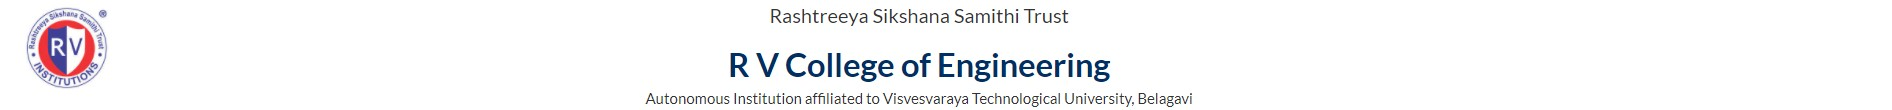
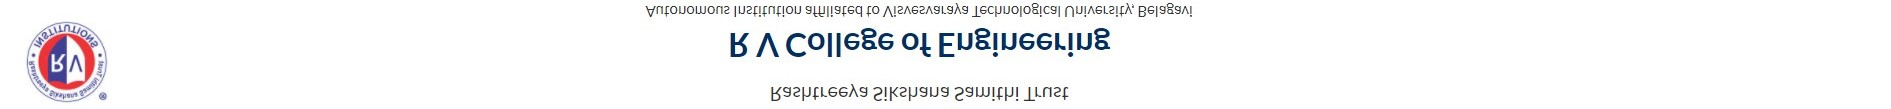
Pdf correction

diff --git a/publication/Adminview/templates/chart/charts.html b/publication/Adminview/templates/chart/charts.html
@@ -9,7 +9,7 @@
             data: {
                 labels: [{% for item in is %}'{{ item.ISSUE_STATUS }}',{% endfor %}],
                 datasets: [{
-                    label: '# of Votes',
+                    label: 'Number of issues',
                     data: [{%for item in is%}{{ item.CNT }},{% endfor %}],
                     backgroundColor: [
                         'rgba(255, 99, 132, 0.2)',

diff --git a/publication/Adminview/views.py b/publication/Adminview/views.py
@@ -44,16 +44,16 @@ def customPDF(request):
     data1 = list(serializers.deserialize("json",request.session.get('mycache1')))
     print(data)
     buf = io.BytesIO()
-    c = canvas.Canvas(buf,pagesize=letter)
+    c = canvas.Canvas(buf,pagesize=letter,bottomup=0)
     c.setFont("Helvetica",25)
     c.setTitle("Custom Report")
-    c.drawString(230,680,"Generated Report")
+    c.drawString(220,100,"Generated Report")
     textob = c.beginText()
     textob.setTextOrigin(inch,inch)
     textob.setFont("Helvetica",10)
     textob.textLine("All uploaded papers")
     lines = []
-    c.drawImage("static/img/header.jpg",15,720, width = 650, height = 40)
+    c.drawImage("static/img/header.jpg",10,10, width = 650, height = 40)
     header = ['Title', 'DOI','Published in', 'Year','Month', 'Scopus', 'WOS']
     lines.append(header)
     for pdf in data:
@@ -69,15 +69,19 @@ def customPDF(request):
                 line.append(p.object.MONTH)
                 line.append(p.object.SCOPUS_INDEX)
                 line.append(p.object.WEB_OF_SCIENCE)
-        lines.append(line)
-    f = Table(lines,colWidths=[150,40,150,35,55,50,50])
-    f.setStyle(TableStyle([('BACKGROUND', (0, 0), (-1, 0), colors.gray),
-                            ('TEXTCOLOR', (0, 0), (-1, 0), colors.whitesmoke),
-                            ('ALIGN',(0,0),(-1,-1),'CENTER'),
-                            ('FONTSIZE',(0,0),(-1,0),14),
-                            ('BOTTOMPADDING',(0,0),(-1,0),12)]))
+        lines = [line] + lines
+    f = Table(lines,colWidths=[150,40,150,35,55,62,62])
+    f.setStyle(TableStyle([('BACKGROUND', (0, -1), (-1, -1), colors.gray),
+                             #('TEXTCOLOR', (0, 0), (-1, 0), colors.whitesmoke),
+                             ('ALIGN',(0,0),(-1,-1),'CENTER'),
+                             ('FONTSIZE',(0,-1),(-1,-1),14),
+                             #('TOPPADDING',(0, 0), (-1, 0),30)
+                             ('BOTTOMPADDING',(0,-1),(-1,-1),20),
+                             #('TOPPADDING',(0,-2),(-1,0),12),
+                             ('BOTTOMPADDING',(0,0),(-1,-1),20)
+                            ]))
     f.wrapOn(c,10, 10)
-    f.drawOn(c, 50, 480)
+    f.drawOn(c, 27, 120)
     # c.showPage()
     c.save()
     buf.seek(0)
@@ -186,34 +190,38 @@ class chartView(TemplateView):
 
 def papersreport(request):
     buf = io.BytesIO()
-    c = canvas.Canvas(buf,pagesize=letter)
+    c = canvas.Canvas(buf,pagesize=letter,bottomup=0)
     c.setFont("Helvetica",25)
     c.setTitle("All Papers")
-    c.drawString(230,680,"Generated Report")
+    c.drawString(220,100,"Generated Report")
     textob = c.beginText()
     textob.setTextOrigin(inch,inch)
     textob.setFont("Helvetica",14)
     textob.textLine("All uploaded papers")
     pdfs = Papers.objects.all()
     lines = []
-    c.drawImage("static/img/header.jpg",15,720, width = 650, height = 40)
+    c.drawImage("static/img/header.jpg",10,10, width = 650, height = 40)
     header = ['Paper ID','Paper Name','DOI','Paper Location']
     lines.append(header)
-    for pdf in pdfs:
+    for pdf in (pdfs):
         line = []
         line.append(str(pdf.paper_id))
         line.append(pdf.title)
         line.append(pdf.doi)
         line.append(str(pdf.pdf))
-        lines.append(line)
+        lines = [line] + lines
     f = Table(lines)
-    f.setStyle(TableStyle([('BACKGROUND', (0, 0), (-1, 0), colors.gray),
-                             ('TEXTCOLOR', (0, 0), (-1, 0), colors.whitesmoke),
+    f.setStyle(TableStyle([('BACKGROUND', (0, -1), (-1, -1), colors.gray),
+                             #('TEXTCOLOR', (0, 0), (-1, 0), colors.whitesmoke),
                              ('ALIGN',(0,0),(-1,-1),'CENTER'),
-                             ('FONTSIZE',(0,0),(-1,0),14),
-                             ('BOTTOMPADDING',(0,0),(-1,0),12)]))
+                             ('FONTSIZE',(0,-1),(-1,-1),14),
+                             #('TOPPADDING',(0, 0), (-1, 0),30)
+                             ('BOTTOMPADDING',(0,-1),(-1,-1),20),
+                             #('TOPPADDING',(0,-2),(-1,0),12),
+                             ('BOTTOMPADDING',(0,0),(-1,-1),20)
+                            ]))
     f.wrapOn(c,10, 10)
-    f.drawOn(c, 50, 500)
+    f.drawOn(c, 145, 120)
     # c.showPage()
     c.save()
     buf.seek(0)
